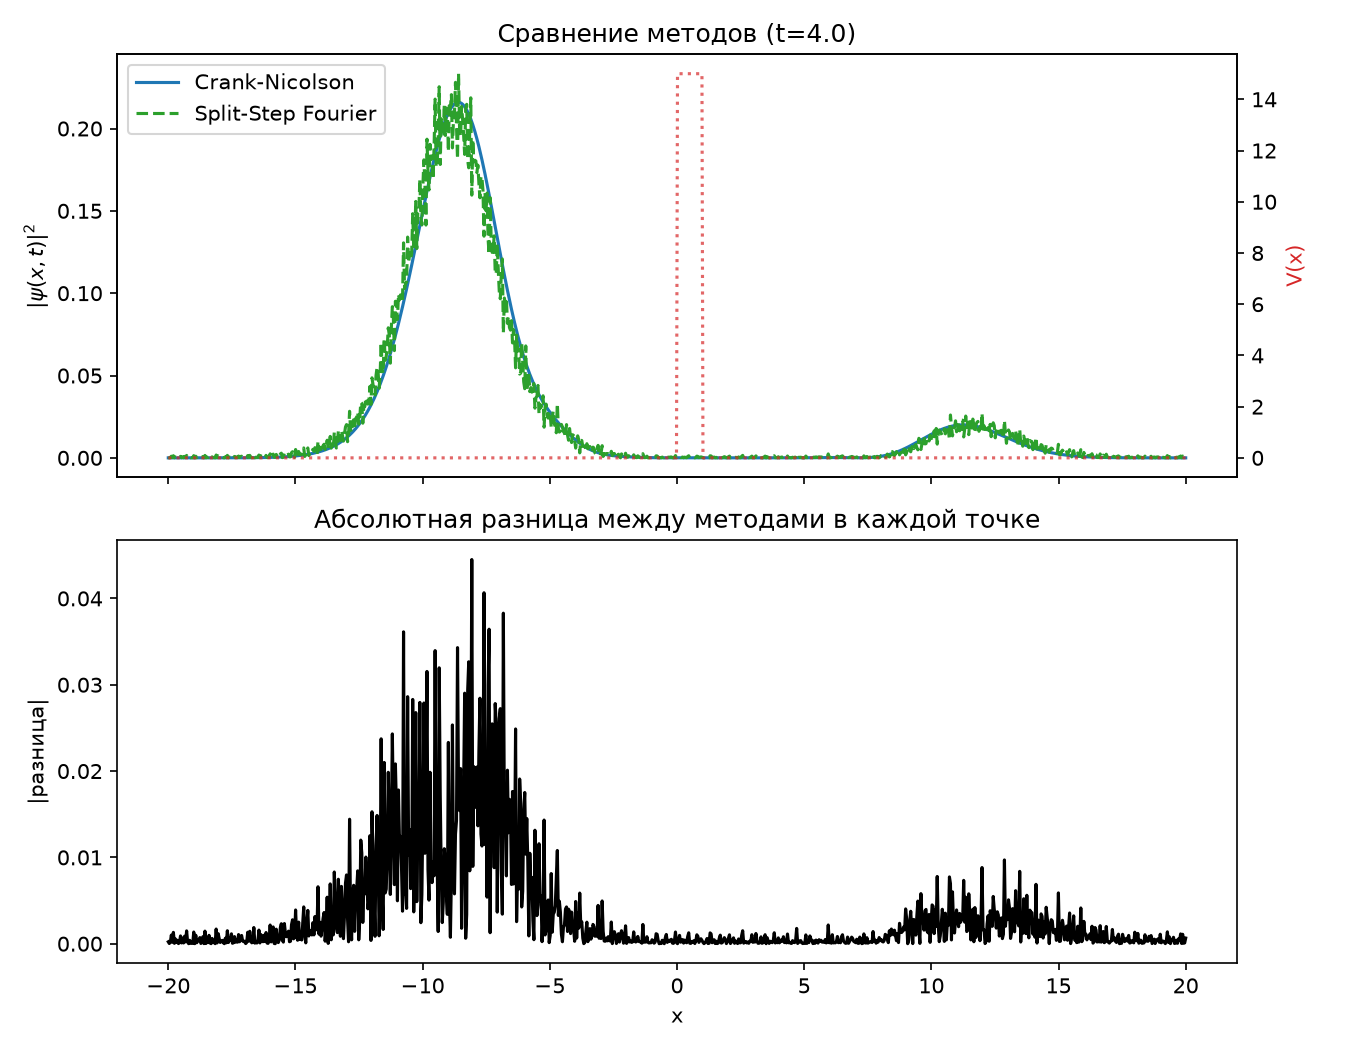
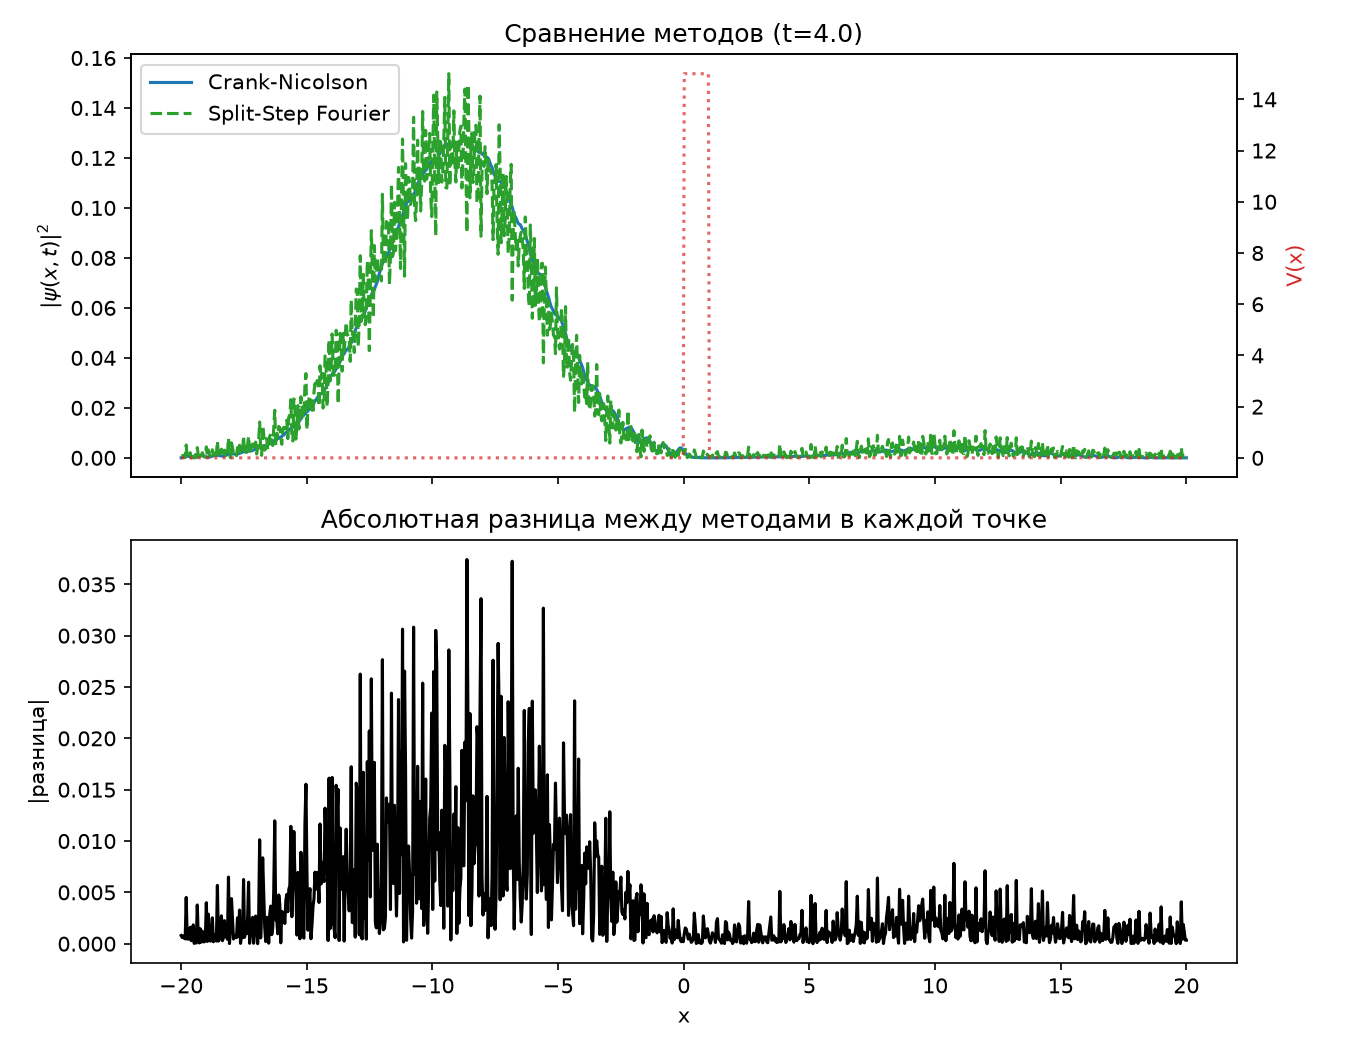
Improve analytical comparison: wider wavepacket (sigma=3.0) for monochromaticity

diff --git a/src/solver/compare_methods.py b/src/solver/compare_methods.py
@@ -17,7 +17,7 @@ x_min, x_max, N = -20.0, 20.0, 1000
 x = np.linspace(x_min, x_max, N)
 dx = x[1] - x[0]
 
-x0, sigma, k0 = -10.0, 1.0, 5.0
+x0, sigma, k0 = -10.0, 3.0, 5.0
 V0, barrier_start, barrier_width = 15.0, 0.0, 1.0
 
 # Потенциал и начальное состояние
@@ -84,3 +84,19 @@ print(f"\nE_packet = {k0**2 / 2:.4f}")
 print(f"V0 = {V0:.4f}")
 print(f"dx = {dx:.3e}")
 print(f"dt = {dt:.3e}")
+
+# --- Сравнение с аналитикой ---
+from analytical import transmission_coefficient_rectangular
+
+E_packet = k0**2 / 2  # энергия пакета в безразмерных единицах
+T_analytical = transmission_coefficient_rectangular(E_packet, V0, barrier_width)
+
+print(f"\nАналитический T: {T_analytical:.4f}")
+print(f"CN:              {T_cn:.4f}  (ошибка: {abs(T_cn - T_analytical):.4f})")
+print(f"SSF:             {T_ssf:.4f}  (ошибка: {abs(T_ssf - T_analytical):.4f})")
+
+# --- Аналитика для разных энергий в пакете ---
+print("\nАналитический T для разных энергий:")
+for E_test in [5.0, 10.0, 12.5, 14.0, 16.0, 20.0]:
+    T_an = transmission_coefficient_rectangular(E_test, V0, barrier_width)
+    print(f"  E = {E_test:5.1f}  →  T = {T_an:.4f}")
